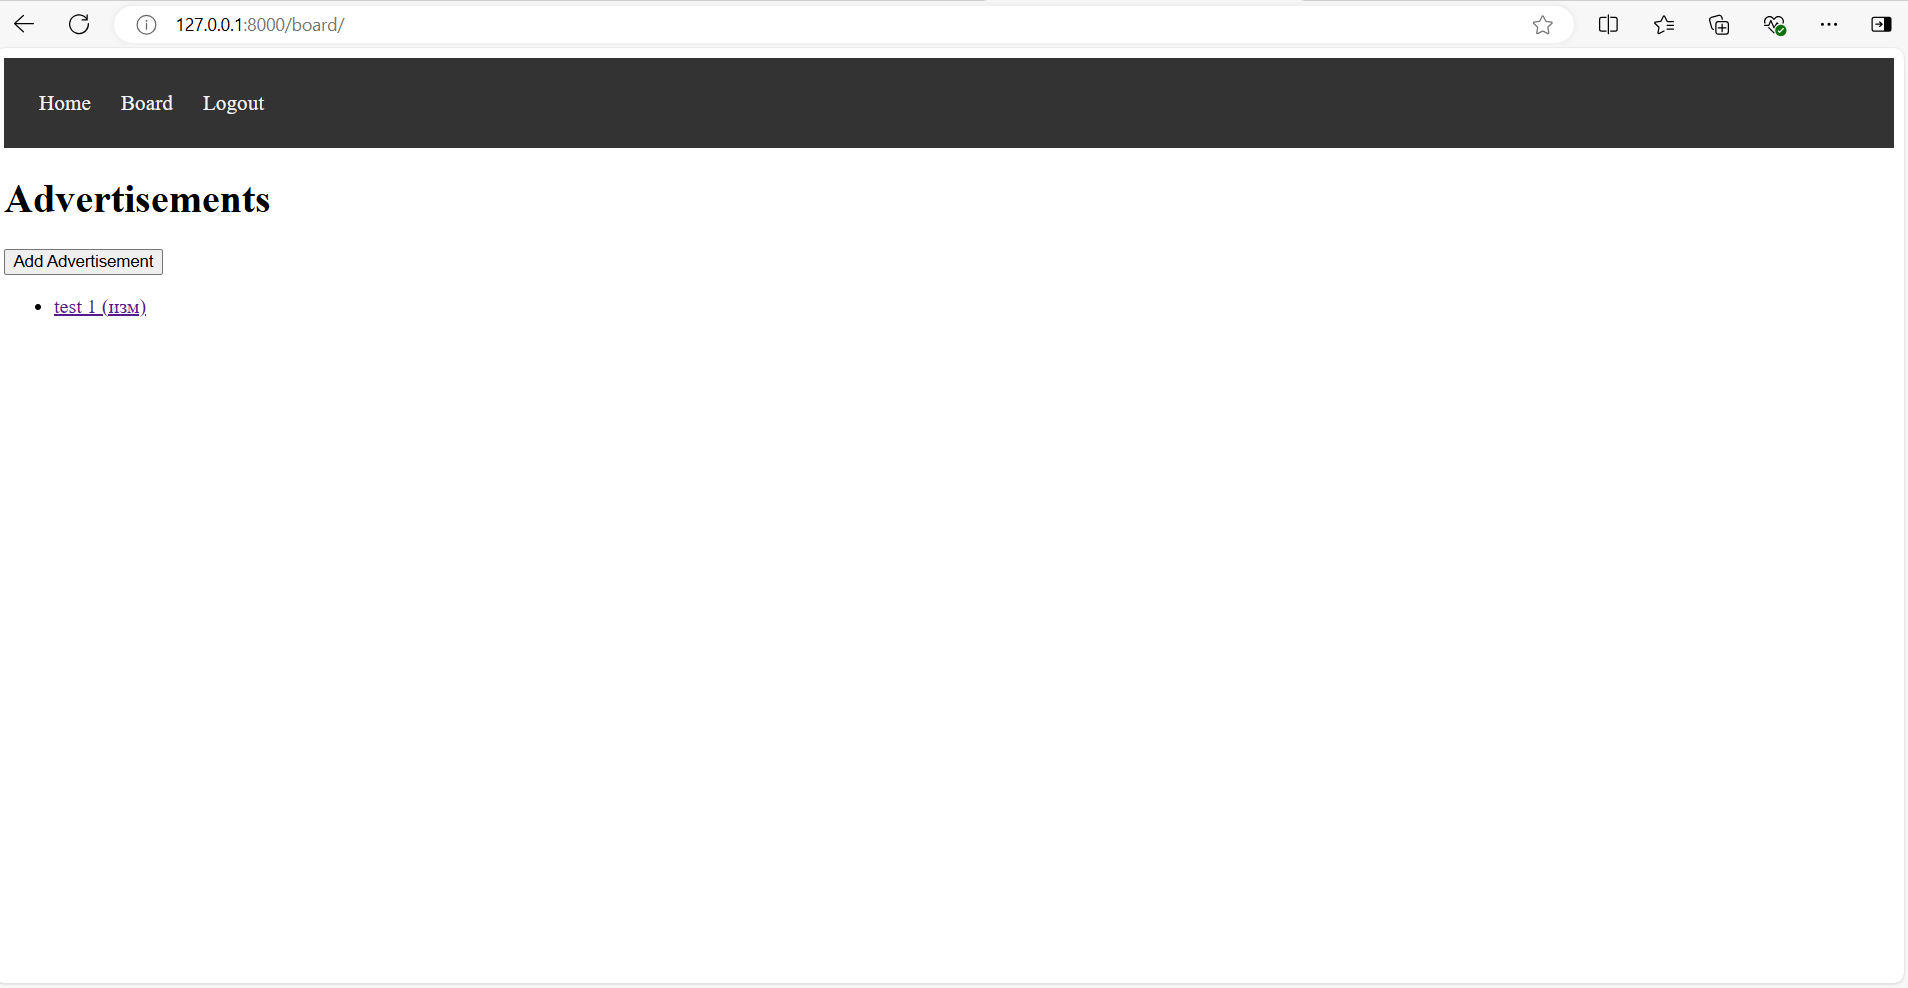
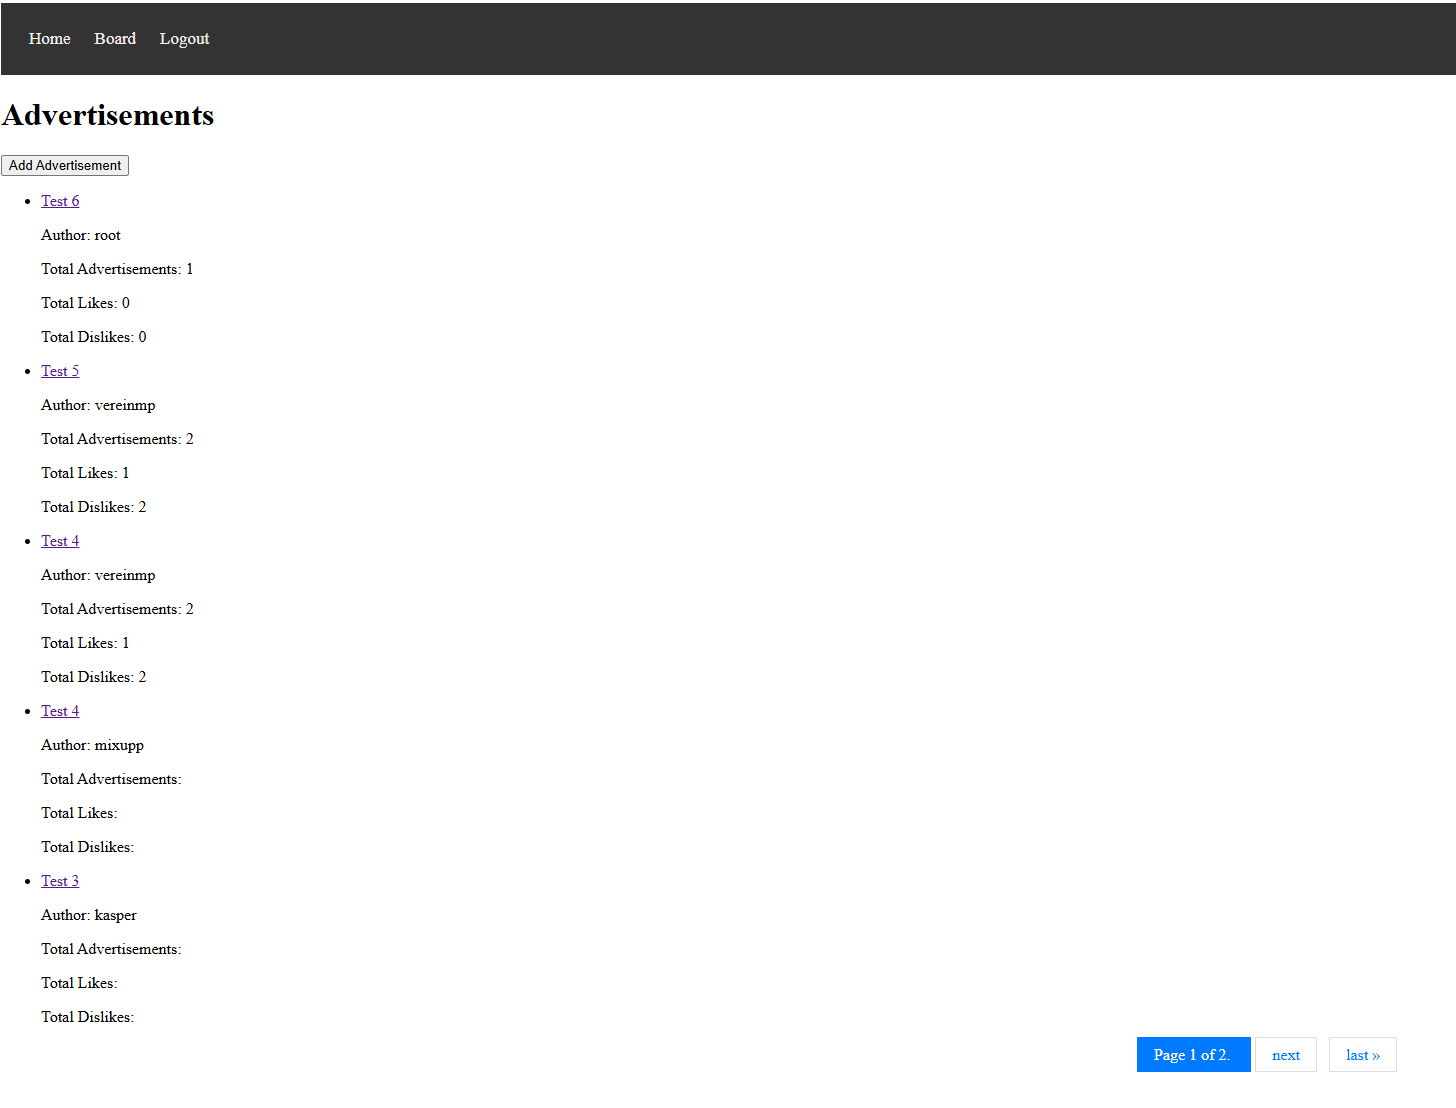
Обновление: Добавление пагинации

Changed region(s): [[0.0, 0.0, 1.0, 0.9413], [0.7727, 0.9109, 0.8963, 0.9717], [0.9272, 0.9413, 0.9581, 0.9717]]

diff --git a/README.md b/README.md
@@ -43,6 +43,10 @@
   - Профиль пользователя автоматически создается при регистрации.
   - В профиле хранится статистика: количество созданных объявлений, лайков и дизлайков.
 
+- **Пагинация:**
+  - Список объявлений разбит на страницы с ограничением количества объявлений на странице.
+  - Пользователи могут переходить между страницами с помощью элементов управления пагинацией.
+
 - **Административная панель:**
   - Администраторы могут управлять объявлениями и комментариями через интерфейс Django Admin.
 
@@ -140,11 +144,12 @@ Advertisement", если вы являетесь автором объявлен
    - Перейдите на страницу http://127.0.0.1:8000/admin/ для доступа к административной панели.
 
 ## Технологии
-  - Django: Веб-фреймворк на Python.
-  - SQLite: База данных по умолчанию.
-  - HTML/CSS: Интерфейс пользователя.
-  - Bootstrap (опционально): Для стилизации интерфейса.
-  - Pillow: Для обработки изображений.
+  - **Django:** Веб-фреймворк на Python.
+  - **SQLite:** База данных по умолчанию.
+  - **HTML/CSS:** Интерфейс пользователя.
+  - **Bootstrap** (опционально): Для стилизации интерфейса.
+  - **Pillow:** Для обработки изображений.
+  - **Django Paginator:** Для реализации пагинации.
 
 ## Автор
   Вереин Михаил Павлович 
